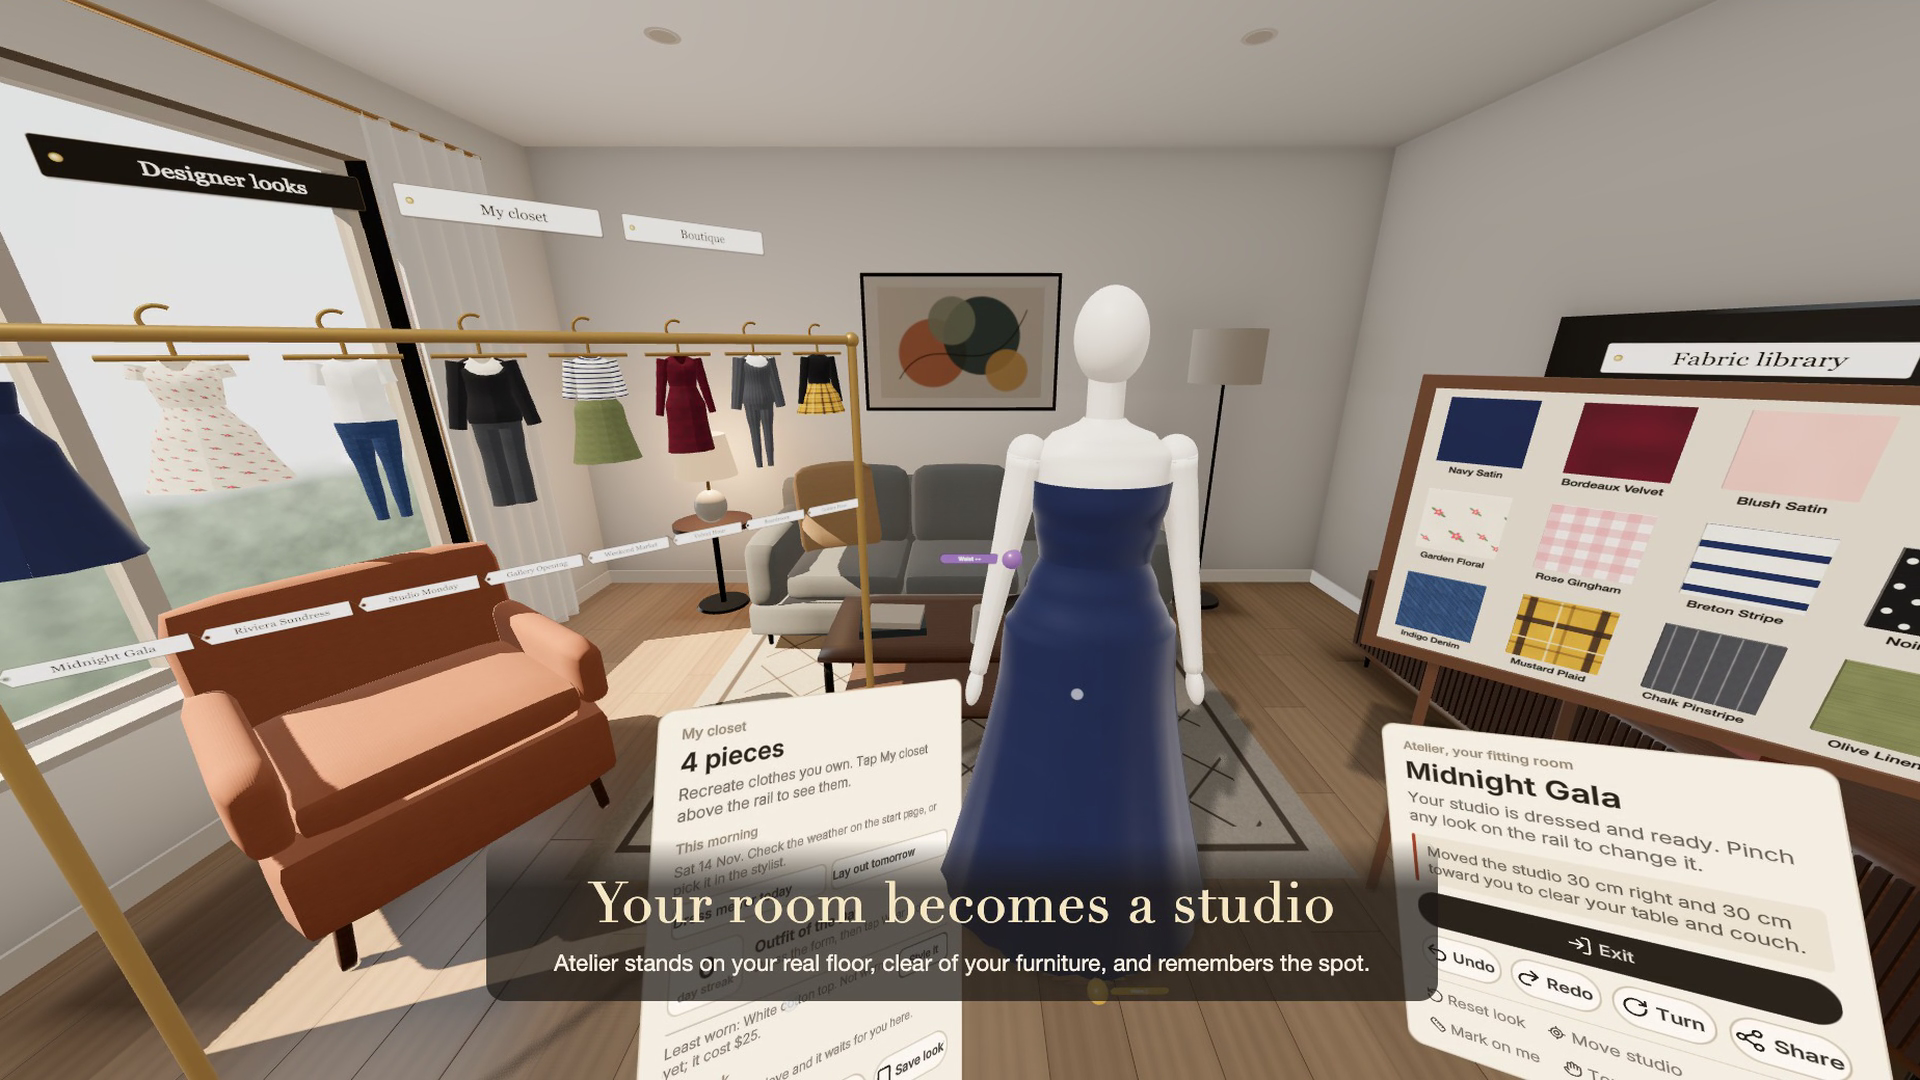
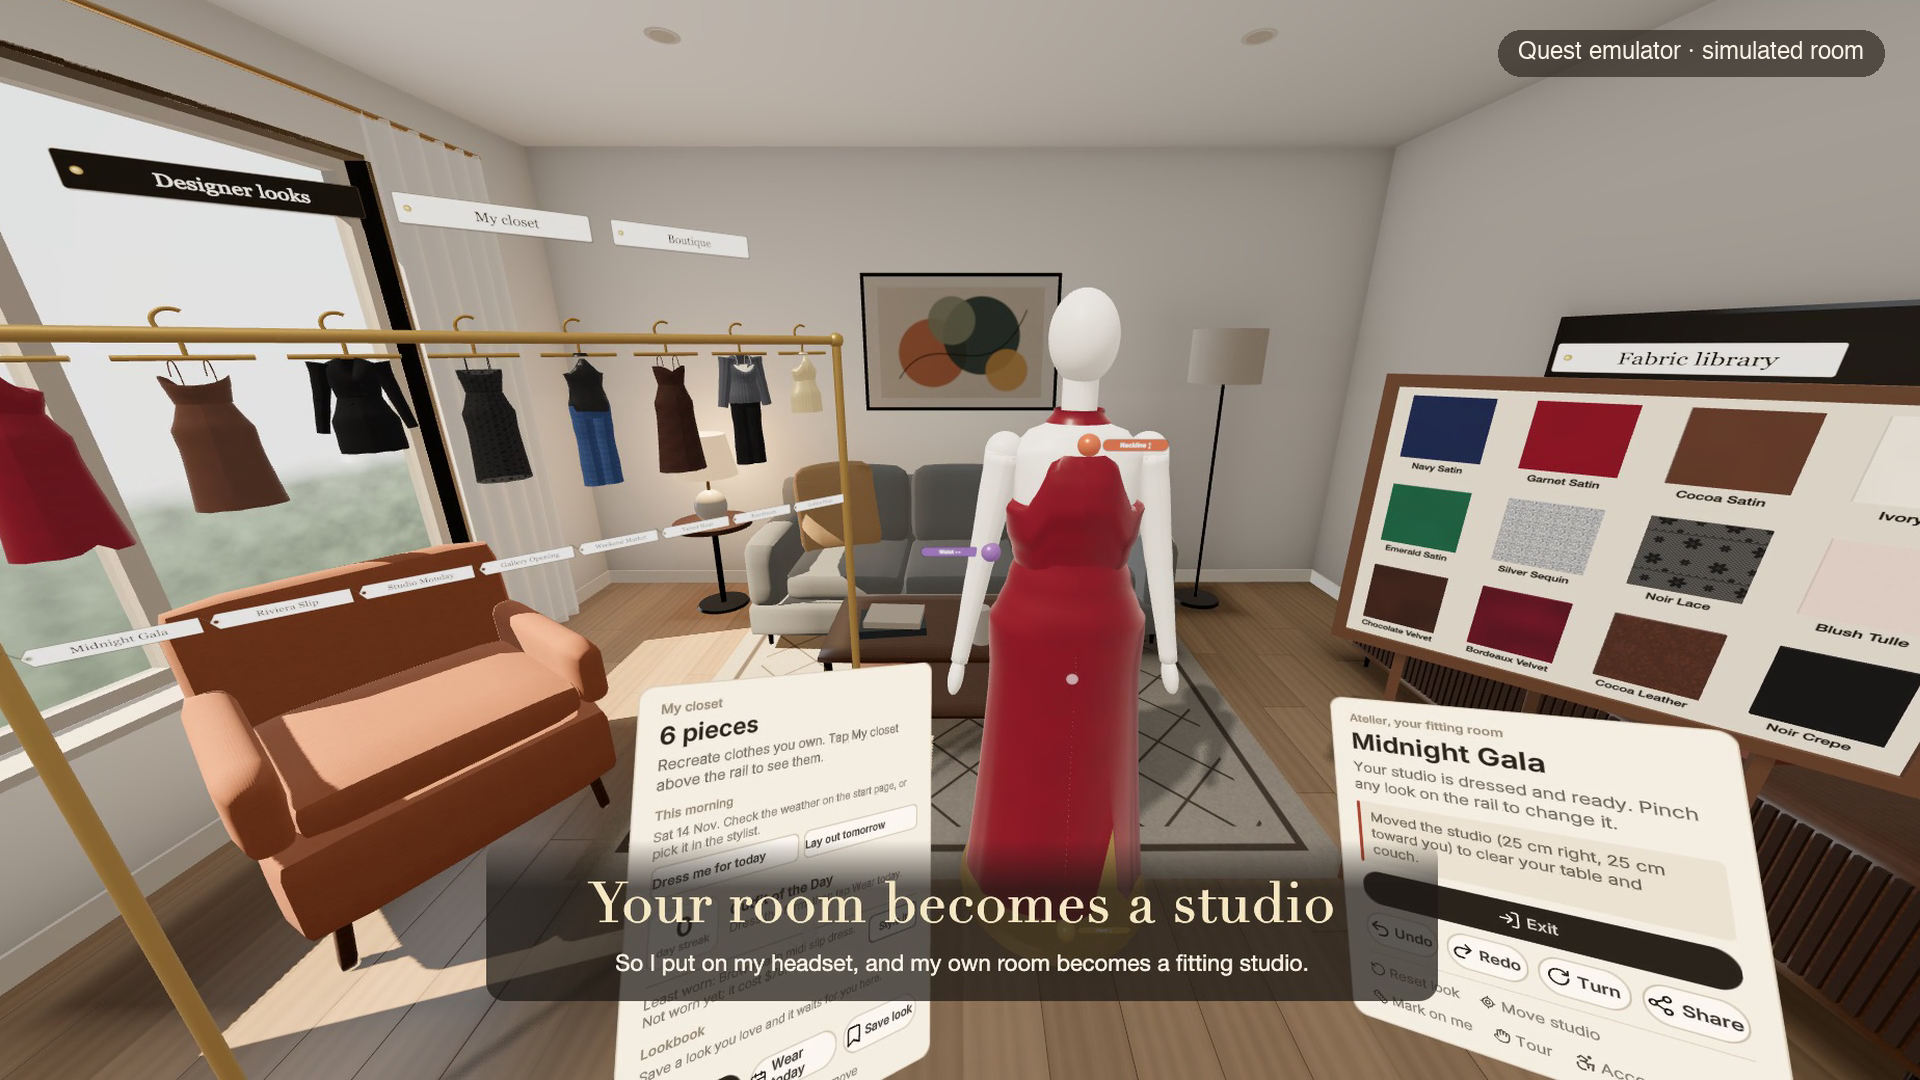
Gallery retaken with the new wardrobe
All thirteen Devpost images now show the current clothes: the stills come
from the new story cut at the same moments as before (the agent's plan,
the velvet slip marked at the knee, the sequin mini laid out for tomorrow,
the emerald halter maxi in the boutique), the start page is a fresh first
visit at 1440x844, and the thumbnail leads with the studio's ATELIER title
over the garnet halter maxi. Emulator stills carry the video's "Quest
emulator, simulated room" tag.

diff --git a/docs/SUBMISSION.md b/docs/SUBMISSION.md
@@ -268,8 +268,10 @@ as the project card), then the stills from the story cut (Immersive Web
 Emulator, simulated living room) and the start page: 01-a-real-morning,
 02-room-becomes-studio, 03-dressed-for-today, 04-mark-on-yourself,
 05-start-page, 06-tape-measure, 07-lay-out-tomorrow, 08-wear-what-you-own,
-09-boutique-verdict, 10-seated, 11-accessibility, 12-get-dressed. Replace
-with on-device captures when a Quest is available. Use only your own
+09-boutique-verdict, 10-seated, 11-accessibility, 12-get-dressed. The
+emulator stills and the thumbnail carry the same small "Quest emulator ·
+simulated room" tag as the video; the start page is the desktop browser.
+Replace with on-device captures when a Quest is available. Use only your own
 full-length photo if you show the photo feature.
 
 ## Special awards
